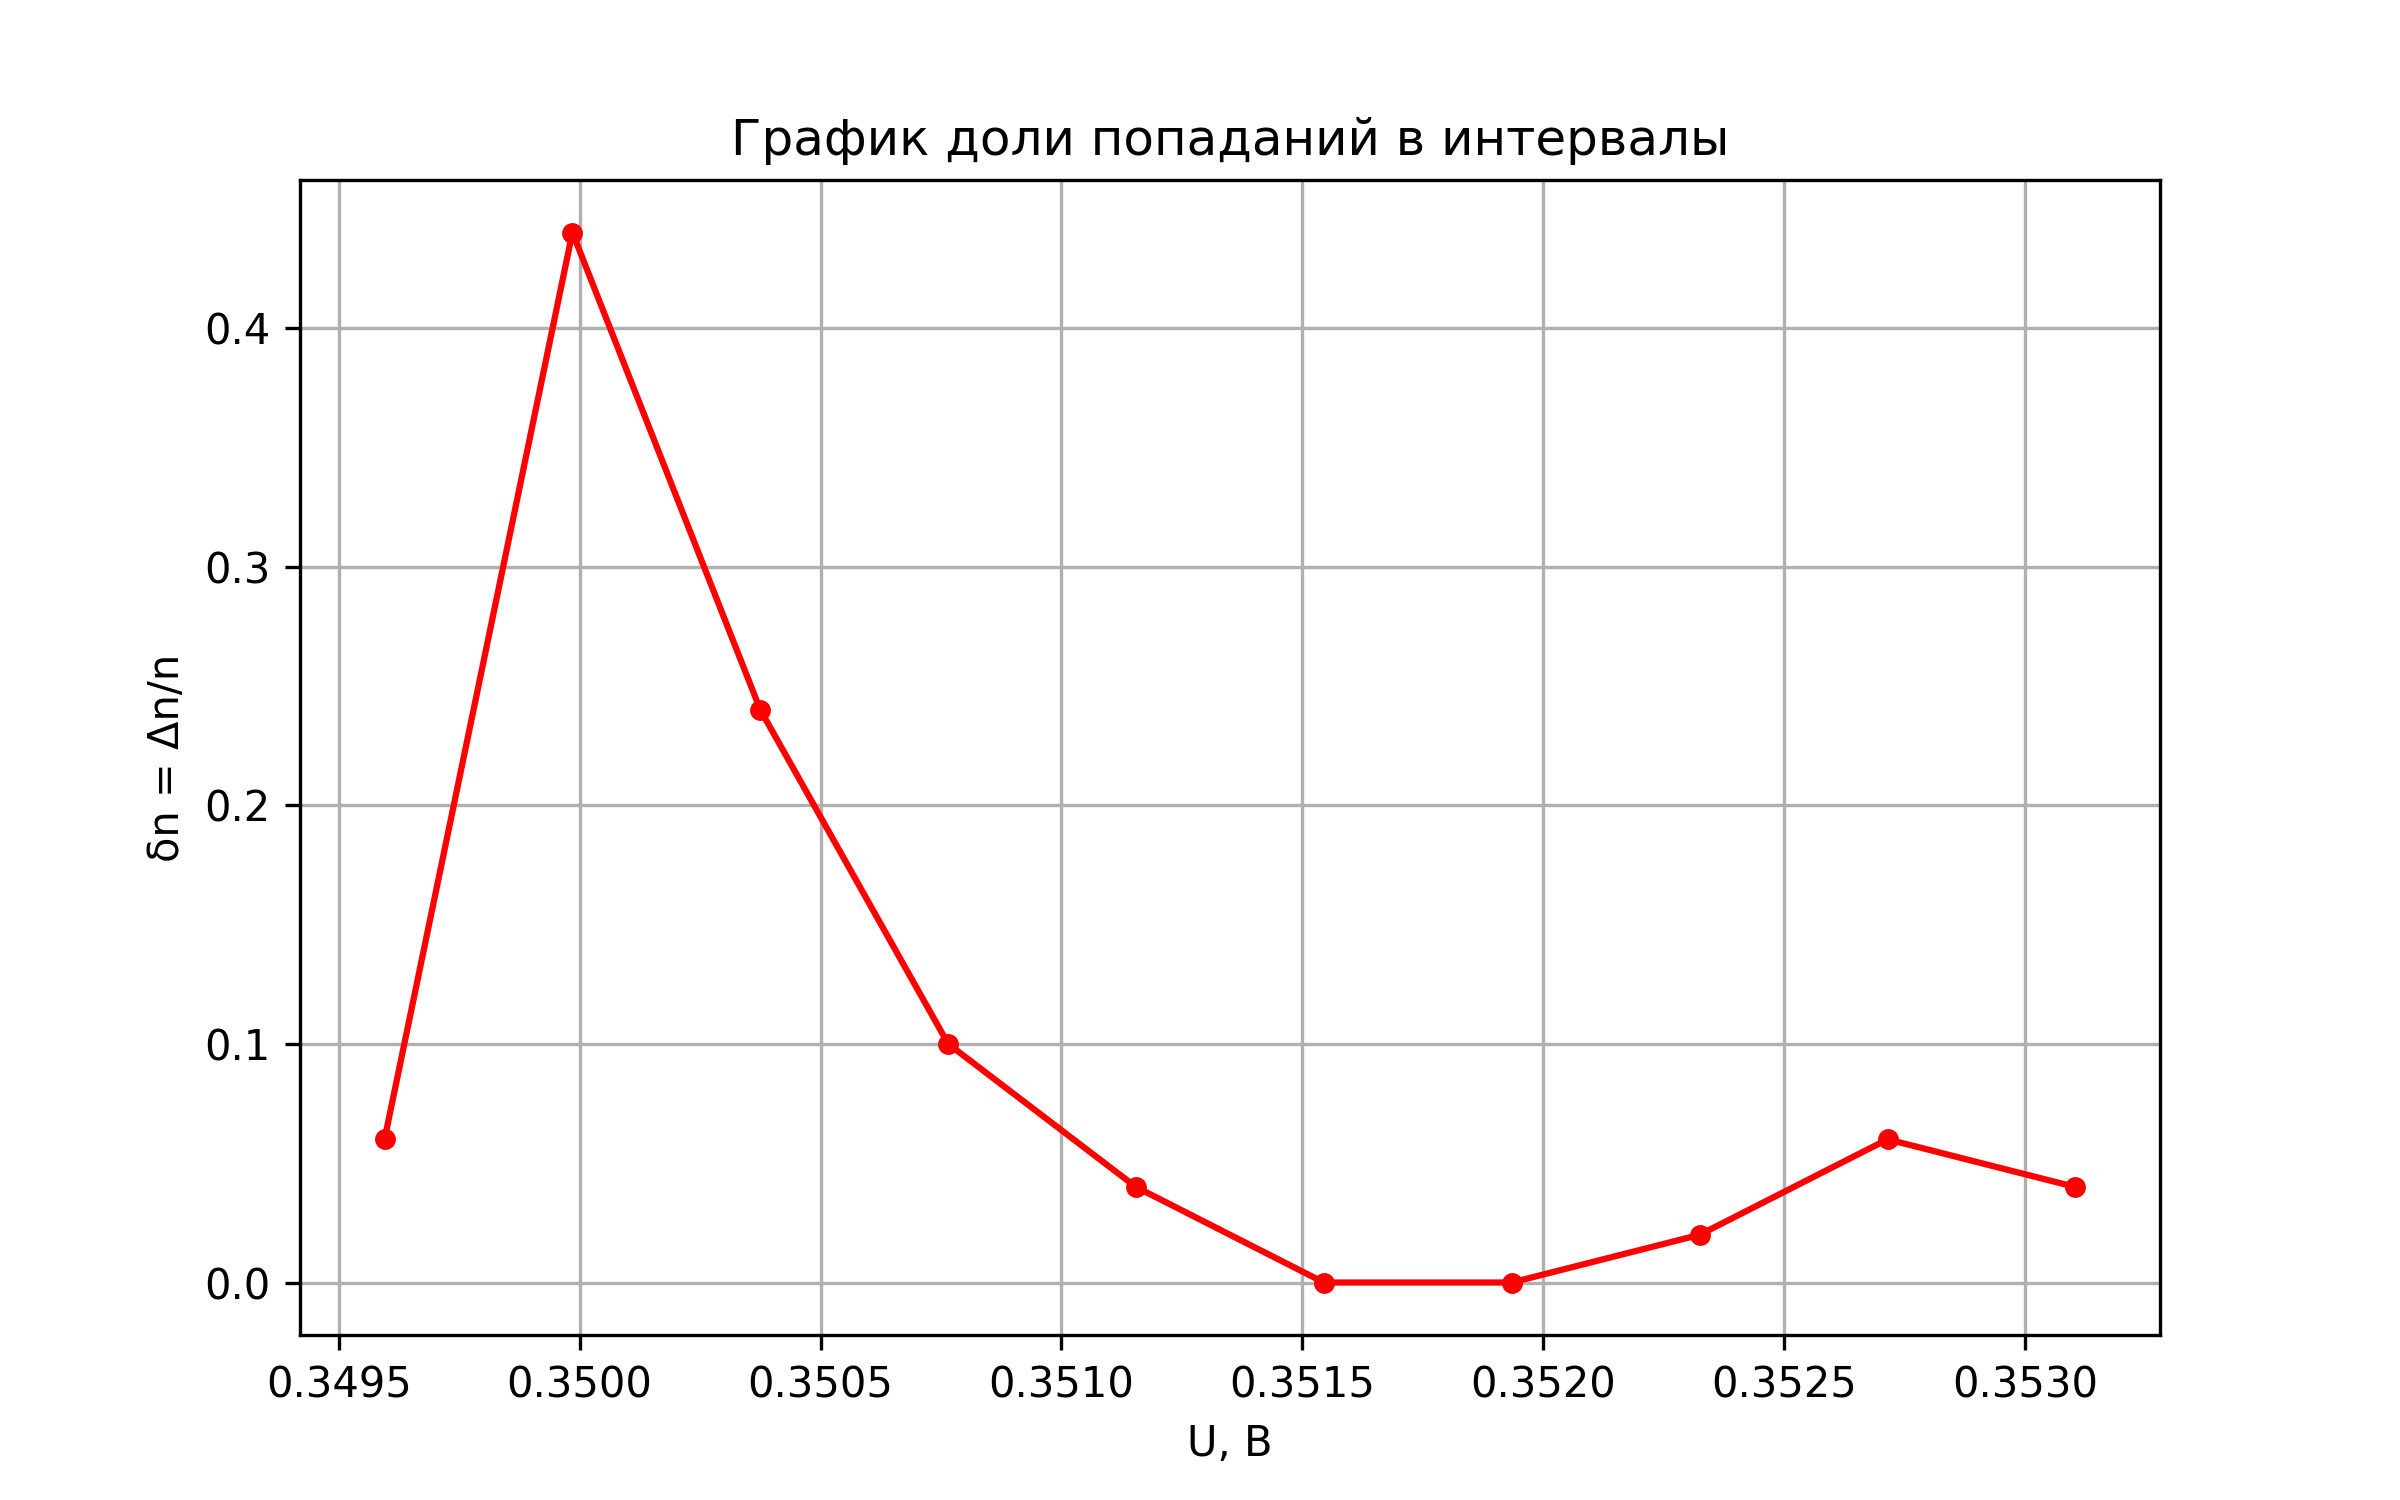
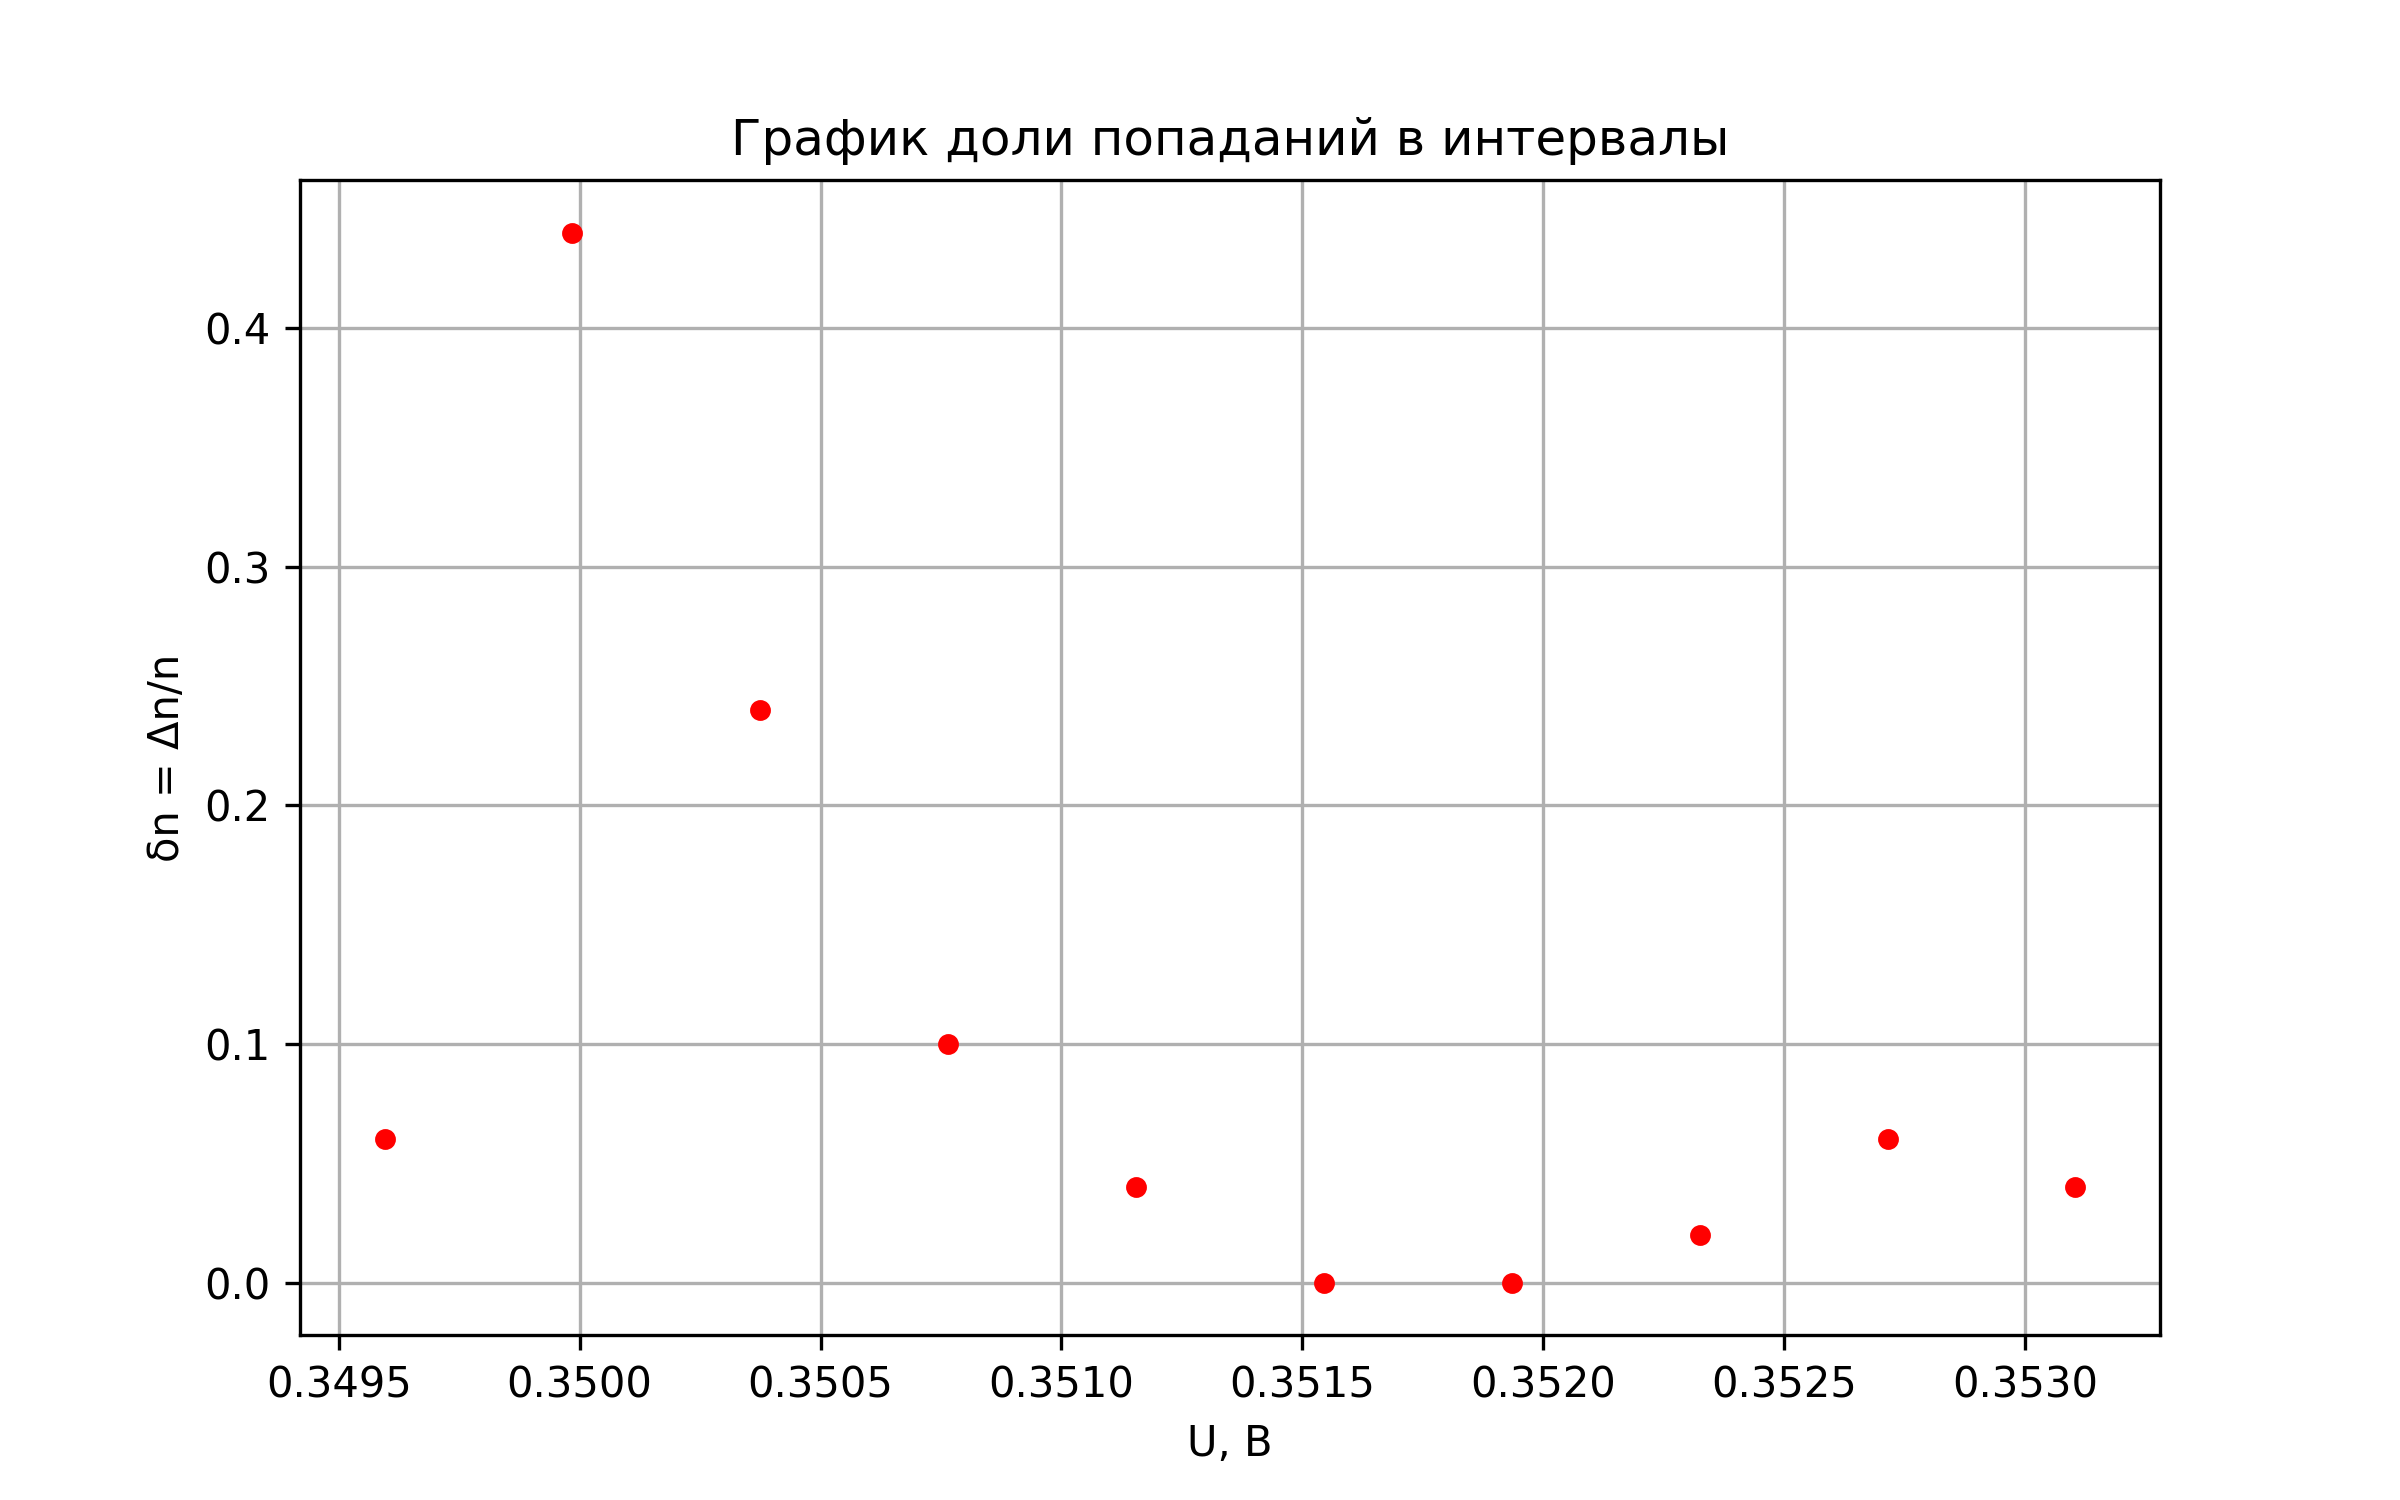
Fix drift plot: remove connecting lines, add mean line; fix table headers (Latin only)

diff --git a/src/process.py b/src/process.py
@@ -130,13 +130,15 @@ print(f"\nОкончательный результат: {quantity_name} = ({x_m
 os.makedirs("output", exist_ok=True)
 os.makedirs("figures", exist_ok=True)  # для сохранения картинок отчёта
 
-# 4.1 График дрейфа
+# 4.1 График дрейфа (точки не соединены, линия среднего)
 plt.figure(figsize=(10, 5))
-plt.plot(range(1, n+1), data_precise, 'bo-', markersize=3, linewidth=0.5)
+plt.plot(range(1, n+1), data_precise, 'bo', markersize=3, label='Результаты наблюдений')
+plt.axhline(y=x_mean, color='r', linestyle='-', linewidth=1, label=f'Среднее = {x_mean:.4f} В')
 plt.xlabel('Номер наблюдения')
 plt.ylabel(f'{quantity_name}, {unit}')
 plt.title('Зависимость результатов наблюдений от времени (порядка)')
 plt.grid(True)
+plt.legend()
 plt.savefig('figures/drift.png', dpi=300)
 plt.show()
 
@@ -159,11 +161,11 @@ with open('output/histogram_data.txt', 'w') as f:
     for c, cnt in zip(centers, counts):
         f.write(f"{c:.6f} {cnt}\n")
 
-# 4.3График плотности
+# 4.3 График плотности (точки не соединены)
 total = n
 density = [c/total for c in counts]
 plt.figure(figsize=(8, 5))
-plt.plot(centers, density, 'ro-', markersize=4)
+plt.plot(centers, density, 'ro', markersize=4)   # убрали соединительную линию
 plt.xlabel(f'{quantity_name}, {unit}')
 plt.ylabel('δn = Δn/n')
 plt.title('График доли попаданий в интервалы')
@@ -183,7 +185,7 @@ with open('output/table_precise.csv', 'w', newline='', encoding='utf-8') as f:
 with open('output/table_precise.tex', 'w', encoding='utf-8') as f:
     f.write("\\begin{tabular}{|c|c|c|c|}\n")
     f.write("\\hline\n")
-    f.write("№ & $U_i$, В & $d_i = U_i - \\overline{U}$ & $d_i^2$ \\\\\n")
+    f.write("No. & $U_i$, V & $d_i = U_i - \\overline{U}$ & $d_i^2$ \\\\\n")
     f.write("\\hline\n")
     for i, x in enumerate(data_precise, start=1):
         d = x - x_mean
@@ -199,7 +201,7 @@ print("\nТаблицы и графики сохранены в папках out
 with open('output/table_rough.tex', 'w', encoding='utf-8') as f:
     f.write("\\begin{tabular}{|c|c|c|c|}\n")
     f.write("\\hline\n")
-    f.write("№ п/п & Диапазон шкалы, В & $U_i$, В & $\\Delta U_{\\text{приб}}$, В \\\\\n")
+    f.write("No. & Range, V & $U_i$, V & $\\Delta U_{\\text{приб}}$, V \\\\\n")
     f.write("\\hline\n")
     for i, x in enumerate(data_rough, start=1):
         f.write(f"{i} & 0-10 & {x:.3f} & {omega_rough} \\\\\n")

diff --git a/report/output/table_rough.tex b/report/output/table_rough.tex
@@ -1,6 +1,6 @@
 \begin{tabular}{|c|c|c|c|}
 \hline
-¹ ï/ï & Äèàïàçîí øêàëû, Â & $U_i$, Â & $\Delta U_{\text{ïðèá}}$, Â \\
+No. & Range, V & $U_i$, V & $\Delta U_{\text{приб}}$, V \\
 \hline
 1 & 0-10 & 0.350 & 0.0026 \\
 2 & 0-10 & 0.349 & 0.0026 \\

diff --git a/report/output/table_precise.tex b/report/output/table_precise.tex
@@ -1,6 +1,6 @@
 \begin{tabular}{|c|c|c|c|}
 \hline
-¹ & $U_i$, Â & $d_i = U_i - \overline{U}$ & $d_i^2$ \\
+No. & $U_i$, V & $d_i = U_i - \overline{U}$ & $d_i^2$ \\
 \hline
 1 & 0.352900 & 0.002410 & 0.00000581 \\
 2 & 0.352600 & 0.002110 & 0.00000445 \\
